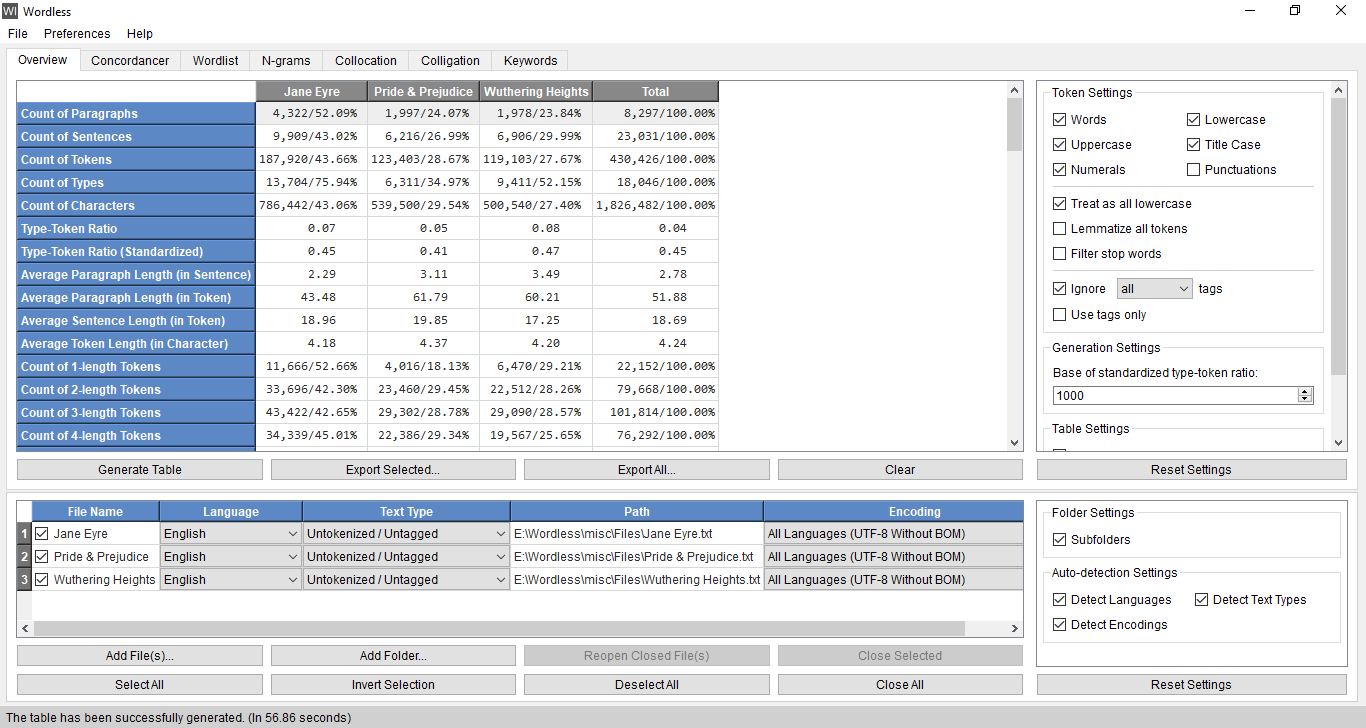
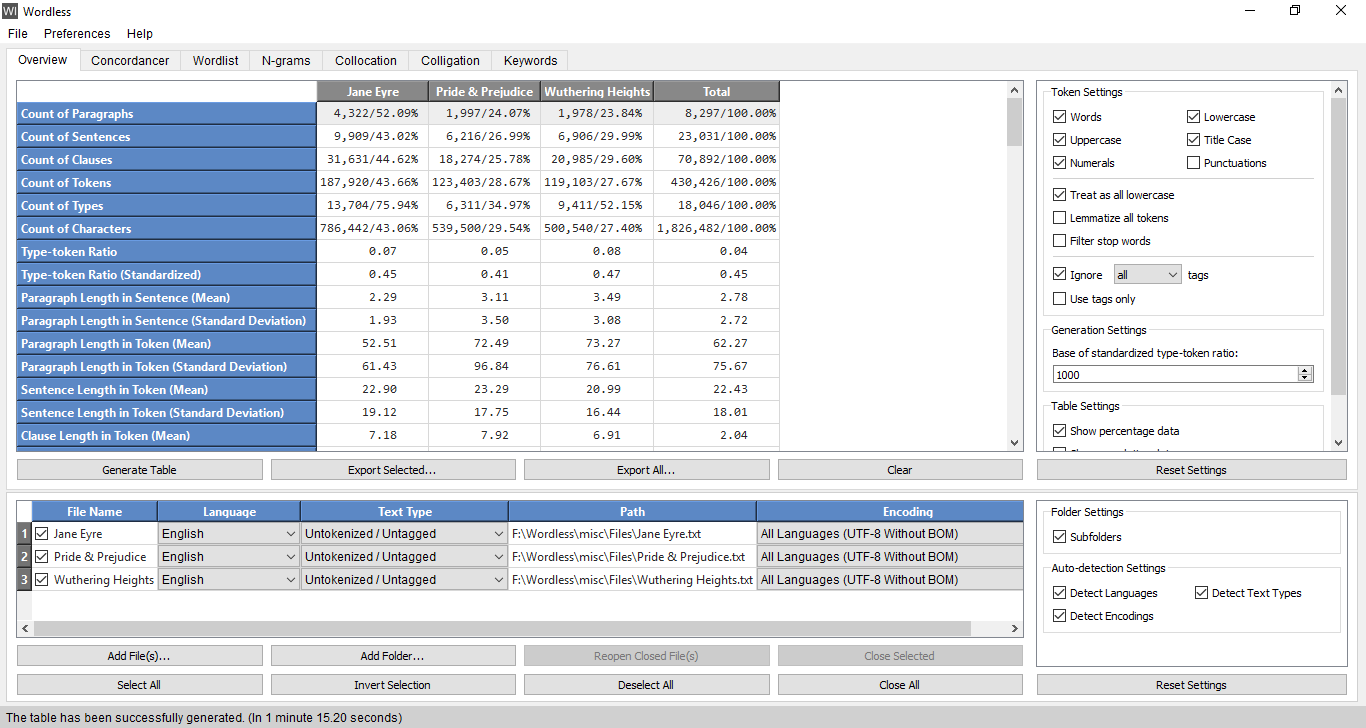
Doc: Update Documentation - Overview

diff --git a/README.md b/README.md
@@ -209,38 +209,65 @@ In *Overview*, you can check/compare the language features of different files.
 2. **Count of Sentences**:<br>
     Number of sentences in each file. *Wordless* will automatically apply the built-in sentence tokenizer according to the language of each file in order to calculate the number of sentences in each file. You can change the sentence tokenizer settings via **Menu → Preferences → Settings → Sentence Tokenization → Sentence Tokenizer Settings**.
 
-3. **Count of Tokens**:<br>
+3. **Count of Clauses**:<br>
+    Number of clauses (delimited by commas, colons, semi-colons, question marks, exclamations marks, quotes, em-dashes, etc.) in each file. *Wordless* will automatically apply the built-in clause tokenizer according to the language of each file in order to calculate the number of clauses in each file.
+
+4. **Count of Tokens**:<br>
     Number of tokens in each file. *Wordless* will automatically apply the built-in word tokenizer according to the language of each file in order to calculate the number of tokens in each file. You can change the word tokenizer settings via **Menu → Preferences → Settings → Word Tokenization → Word Tokenizer Settings**.
 
     You can specify what should be counted as a "token" via **Token Settings** in the *Settings Area*
 
-4. **Count of Types**:<br>
+5. **Count of Types**:<br>
     Number of token types in each file.
 
-5. **Count of Characters**:<br>
+6. **Count of Characters**:<br>
     Number of single characters in each file. Spaces, tabs and all other invisible characters are ignored.
 
-6. **Type-Token Ratio**:<br>
+7. **Type-Token Ratio**:<br>
     Number of token types divided by number of tokens.
 
-7. **Type-Token Ratio (Standardized)**:<br>
+8. **Type-Token Ratio (Standardized)**:<br>
     Standardized type-token ratio. Each file will be divided into several sub-sections with each one consisting of 1000 tokens by default and type-token ratio will be calculated for each part. The standardized type-token ratio of each file is then averaged out over all sub-sections. You can change the number of tokens in each sub-section via **Generation Settings → Base of standardized type-token ratio**.
 
     The last section will be discarded if the number of tokens in it is smaller than the base of standardized type-token ratio in order to prevent the result from being affected by outliers (extreme values).
 
-8. **Average Paragraph Length (in Sentence)**:<br>
-    Number of sentences divided by number of paragraphs.
+9. **Paragraph Length in Sentence (Mean)**:<br>
+    The average value of paragraph length expressed as the number of sentences.
 
-9. **Average Paragraph Length (in Token)**:<br>
-    Number of Tokens divided by number of paragraphs.
+10. **Paragraph Length in Sentence (Standard Deviation)**:<br>
+    The standard deviation of paragraph length expressed as the number of sentences.
 
-10. **Average Sentence Length (in Token)**:<br>
-    Number of tokens divided by number of sentences.
+11. **Paragraph Length in Token (Mean)**:<br>
+    The average value of paragraph length expressed as number of tokens.
 
-11. **Average Token Length (in Character)**:<br>
-    Number of characters divided by number of tokens.
+12. **Paragraph Length in Token (Standard Deviation)**:<br>
+    The standard deviation of paragraph length expressed as number of tokens.
 
-12. **Count of n-length Tokens**:<br>
+13. **Sentence Length in Token (Mean)**:<br>
+    The average value of sentence length expressed as number of tokens.
+
+14. **Sentence Length in Token (Standard Deviation)**:<br>
+    The standard deviation of sentence length expressed as number of tokens.
+
+15. **Clause Length in Token (Mean)**:<br>
+    The average value of clause length expressed as number of tokens.
+
+16. **Clause Length in Token (Standard Deviation)**:<br>
+    The standard deviation of clause length expressed as number of tokens.
+
+17. **Token Length in Character (Mean)**:<br>
+    The average value of token length expressed as number of characters.
+
+18. **Token Length in Character (Standard Deviation)**:<br>
+    The standard deviation of token length expressed as number of characters.
+
+19. **Type Length in Character (Mean)**:<br>
+    The average value of type length expressed as number of characters.
+
+20. **Type Length in Character (Standard Deviation)**:<br>
+    The standard deviation of type length expressed as number of characters.
+
+21. **Count of n-length Tokens**:<br>
     Number of n-length tokens, where n = 1, 2, 3, etc.
 
 ![Overview Table](/doc/overview/overview_table.png)
